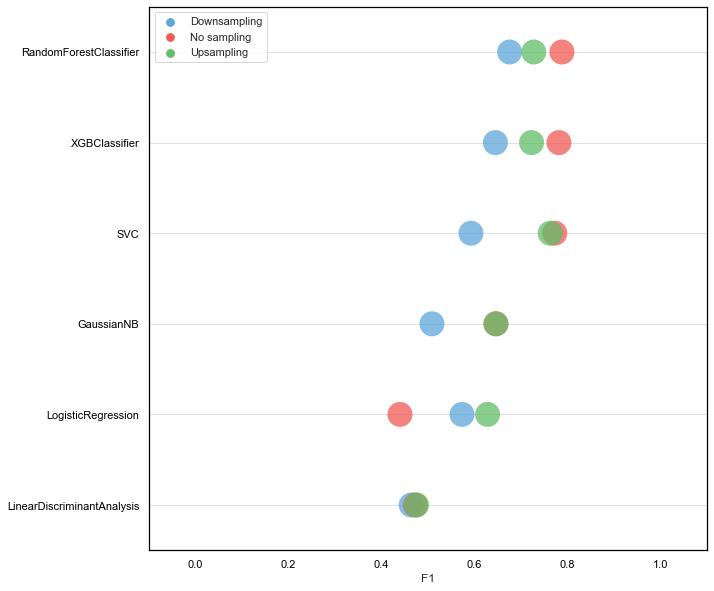
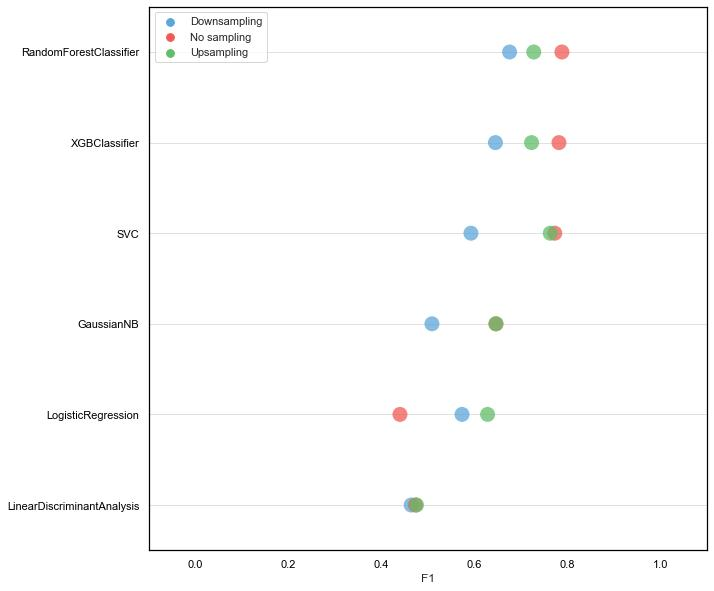
fixed plots

diff --git a/code/model_comparison.py b/code/model_comparison.py
@@ -30,7 +30,7 @@ for idx, val in enumerate(df.columns[2:]):
     
     plt.figure(figsize=(10, 10))
     # ax = sns.scatterplot(data = df, y = 'Model', x = val, hue = 'Sampling', style='Sampling', s=225, linewidth=0, alpha=0.75, markers=('o','s','^'), palette=[medium[1],medium[8],medium[3]])
-    ax = sns.stripplot(y = df['Model'], x = df[val], hue = df['Sampling'], s=25, jitter=False, order=sorted_index_descent, alpha=0.75, palette=[medium[1],medium[8],medium[3]])
+    ax = sns.stripplot(y = df['Model'], x = df[val], hue = df['Sampling'], s=15, jitter=False, order=sorted_index_descent, alpha=0.75, palette=[medium[1],medium[8],medium[3]])
     ax.set_ylabel('')
     ax.set_xlabel(val)
     ax.set_xlim([-.1,1.1])
